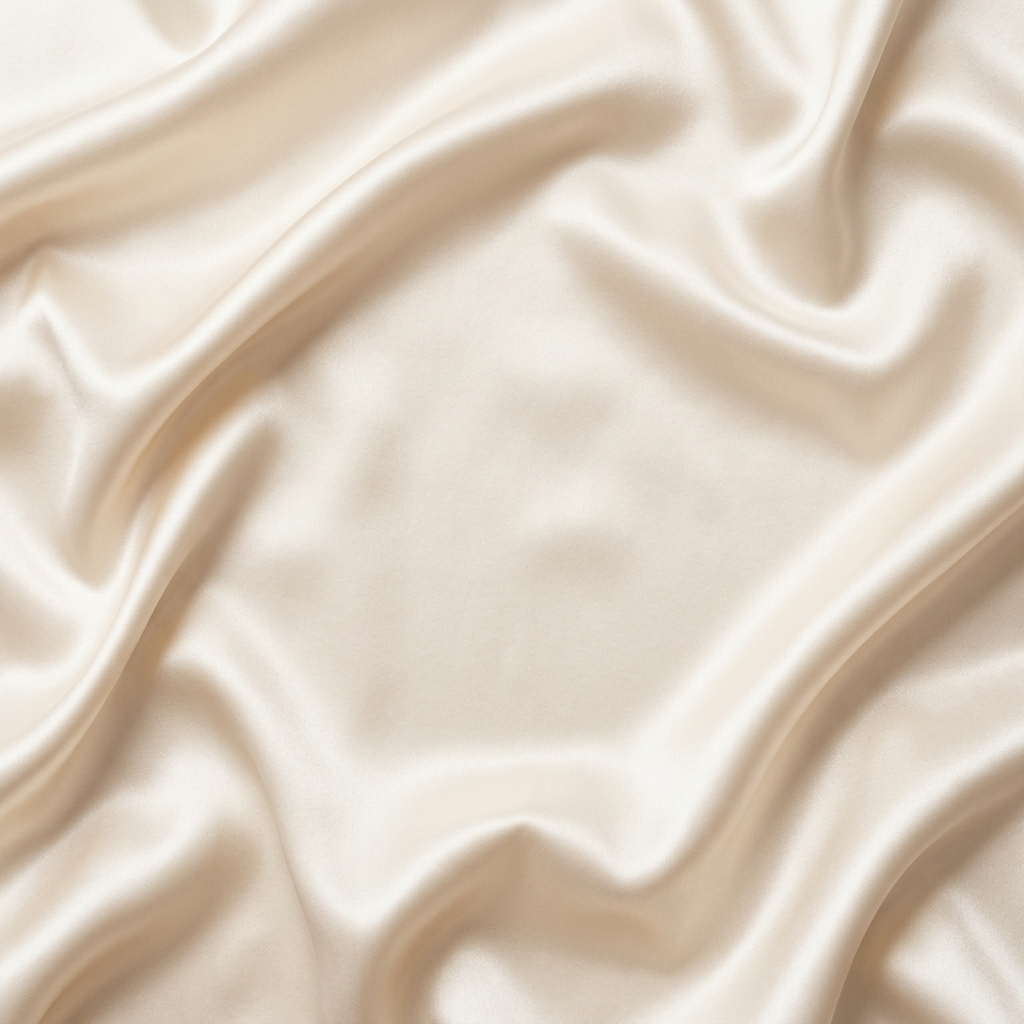
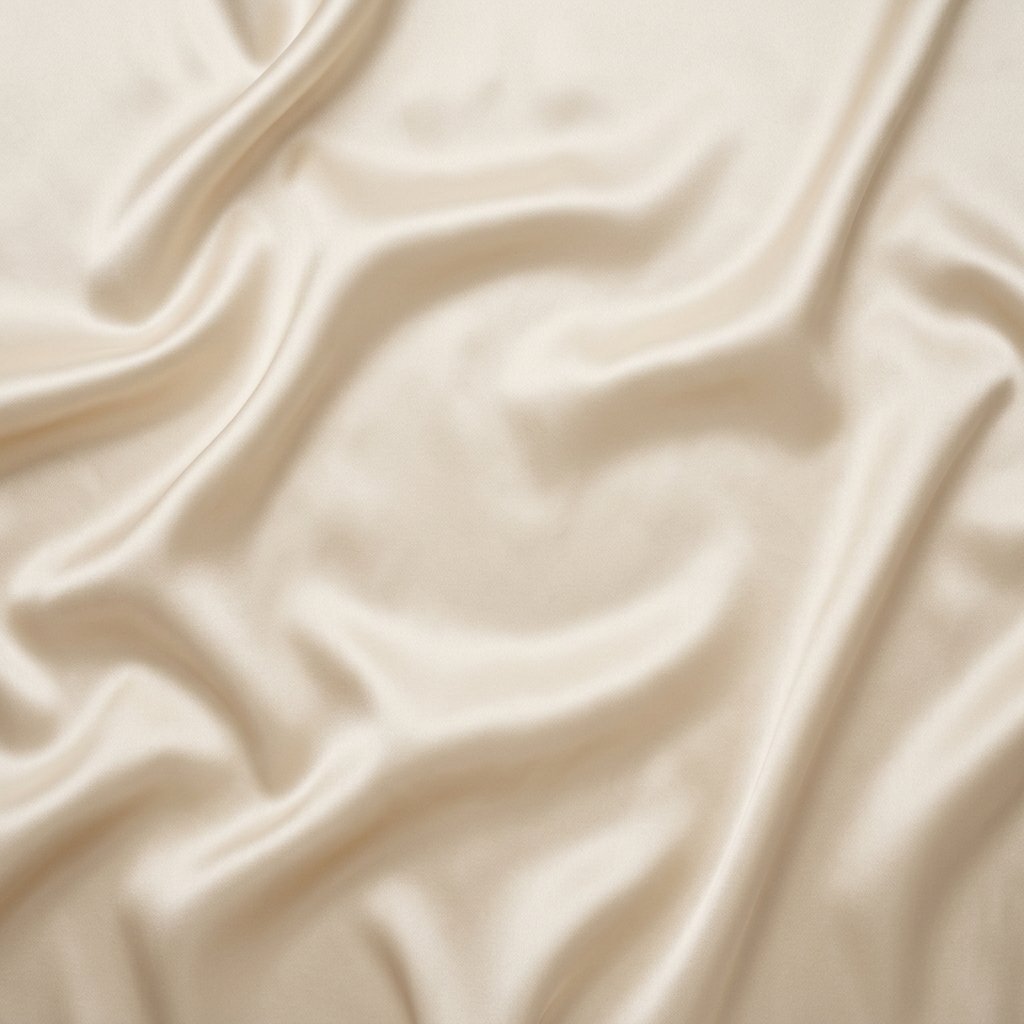
fix(media-pack): upgrade slot 2 styled silk with continuous luxury flat-lay and contact AO shadows

diff --git a/server/services/media/mediaPipelineService.ts b/server/services/media/mediaPipelineService.ts
@@ -702,61 +702,114 @@ export async function createStyledSupportingDerivative(
     trimmedProduct = productPng;
   }
 
-  // 4. Resize isolated product to strong catalogue scale on 2048 canvas.
+  // 4. Resize isolated product to elegant luxury editorial scale on 2048 canvas.
   const resizedProduct = await sharp(trimmedProduct)
-    .resize(1760, 1760, {
+    .resize(1560, 1560, {
       fit: 'contain',
       background: { r: 0, g: 0, b: 0, alpha: 0 },
     })
     .toBuffer();
 
-  // 4b. Create soft ambient contact shadow from the product's alpha channel
-  let shadowLayer: { input: Buffer; top: number; left: number } | null = null;
+  // 4b. Defringe semi-transparent edge pixels and create realistic multi-depth grounding shadows
+  let defringedProduct = resizedProduct;
+  let alphaInfo: { width: number; height: number };
+  let rawData: Buffer;
   try {
-    const { data: rawAlpha, info: alphaInfo } = await sharp(resizedProduct)
+    const rawObj = await sharp(resizedProduct)
       .ensureAlpha()
       .raw()
       .toBuffer({ resolveWithObject: true });
+    alphaInfo = rawObj.info;
+    rawData = rawObj.data;
+    const numPixels = alphaInfo.width * alphaInfo.height;
 
-    const shadowRaw = Buffer.alloc(alphaInfo.width * alphaInfo.height * 4);
+    for (let i = 0; i < numPixels; i++) {
+      const idx = i * 4;
+      const a = rawData[idx + 3];
+      if (a > 0 && a < 235) {
+        const r = rawData[idx];
+        const g = rawData[idx + 1];
+        const b = rawData[idx + 2];
+        if (r > 210 && g > 205 && b > 195) {
+          rawData[idx + 3] = Math.max(0, Math.round(a * 0.45));
+        }
+      }
+    }
+    defringedProduct = await sharp(rawData, {
+      raw: { width: alphaInfo.width, height: alphaInfo.height, channels: 4 },
+    })
+      .png()
+      .toBuffer();
+  } catch {
+    const r = await sharp(resizedProduct).ensureAlpha().raw().toBuffer({ resolveWithObject: true });
+    alphaInfo = r.info;
+    rawData = r.data;
+  }
+
+  // 4c. Create dual-layer grounding shadows:
+  // 1. Tight Contact Ambient Occlusion (AO) directly hugging the underside of metal & stones
+  // 2. Soft Directional Bedding Shadow simulating diffused daylight on silk fabric folds
+  let aoLayer: { input: Buffer; top: number; left: number } | null = null;
+  let dirLayer: { input: Buffer; top: number; left: number } | null = null;
+  try {
+    const numPixels = alphaInfo.width * alphaInfo.height;
+    const aoRaw = Buffer.alloc(numPixels * 4);
+    const dirRaw = Buffer.alloc(numPixels * 4);
     let hasProductPixels = false;
-    for (let i = 0; i < alphaInfo.width * alphaInfo.height; i++) {
-      const a = rawAlpha[i * 4 + 3];
-      if (a > 15) {
+
+    for (let i = 0; i < numPixels; i++) {
+      const a = rawData[i * 4 + 3];
+      if (a > 25) {
         hasProductPixels = true;
-        const sIdx = i * 4;
-        shadowRaw[sIdx] = 50;     // warm dark charcoal/brown shadow
-        shadowRaw[sIdx + 1] = 42;
-        shadowRaw[sIdx + 2] = 38;
-        shadowRaw[sIdx + 3] = Math.round(a * 0.32); // soft 32% density
+        const idx = i * 4;
+
+        // Tight Contact AO: rich warm espresso charcoal #201610 (hugs underside)
+        aoRaw[idx] = 32;
+        aoRaw[idx + 1] = 24;
+        aoRaw[idx + 2] = 18;
+        aoRaw[idx + 3] = Math.round(a * 0.45);
+
+        // Soft Directional Bedding: warm silk shadow #403228
+        dirRaw[idx] = 64;
+        dirRaw[idx + 1] = 50;
+        dirRaw[idx + 2] = 40;
+        dirRaw[idx + 3] = Math.round(a * 0.22);
       }
     }
 
     if (hasProductPixels) {
-      const blurredShadow = await sharp(shadowRaw, {
+      const aoShadow = await sharp(aoRaw, {
         raw: { width: alphaInfo.width, height: alphaInfo.height, channels: 4 },
       })
-        .blur(18)
+        .blur(1.2)
         .png()
         .toBuffer();
 
-      const topOffset = Math.round((2048 - alphaInfo.height) / 2) + 14;
-      const leftOffset = Math.round((2048 - alphaInfo.width) / 2) + 6;
-      shadowLayer = { input: blurredShadow, top: topOffset, left: leftOffset };
+      const dirShadow = await sharp(dirRaw, {
+        raw: { width: alphaInfo.width, height: alphaInfo.height, channels: 4 },
+      })
+        .blur(12.0)
+        .png()
+        .toBuffer();
+
+      const topBase = Math.round((2048 - alphaInfo.height) / 2);
+      const leftBase = Math.round((2048 - alphaInfo.width) / 2);
+
+      dirLayer = { input: dirShadow, top: topBase + 9, left: leftBase + 5 };
+      aoLayer = { input: aoShadow, top: topBase + 2, left: leftBase + 1 };
     }
   } catch {}
 
   // 5. Composite product gracefully onto the styled luxury background
   const compositeInputs: any[] = [];
-  if (shadowLayer) {
-    compositeInputs.push(shadowLayer);
-  }
-  compositeInputs.push({ input: resizedProduct, gravity: 'center' });
+  if (dirLayer) compositeInputs.push(dirLayer);
+  if (aoLayer) compositeInputs.push(aoLayer);
+  compositeInputs.push({ input: defringedProduct, gravity: 'center' });
 
   const processedBuffer = await sharp(bgBuffer)
     .composite(compositeInputs)
-    .sharpen({ sigma: 0.7, m1: 0.8, m2: 1.5 })
-    .jpeg({ quality: 93, chromaSubsampling: '4:4:4' })
+    .sharpen({ sigma: 0.6, m1: 0.8, m2: 1.5 })
+    .jpeg({ quality: 95, chromaSubsampling: '4:4:4' })
     .toBuffer();
 
   const { url } = saveDerivativeBuffer(processedBuffer, outputFilename);
